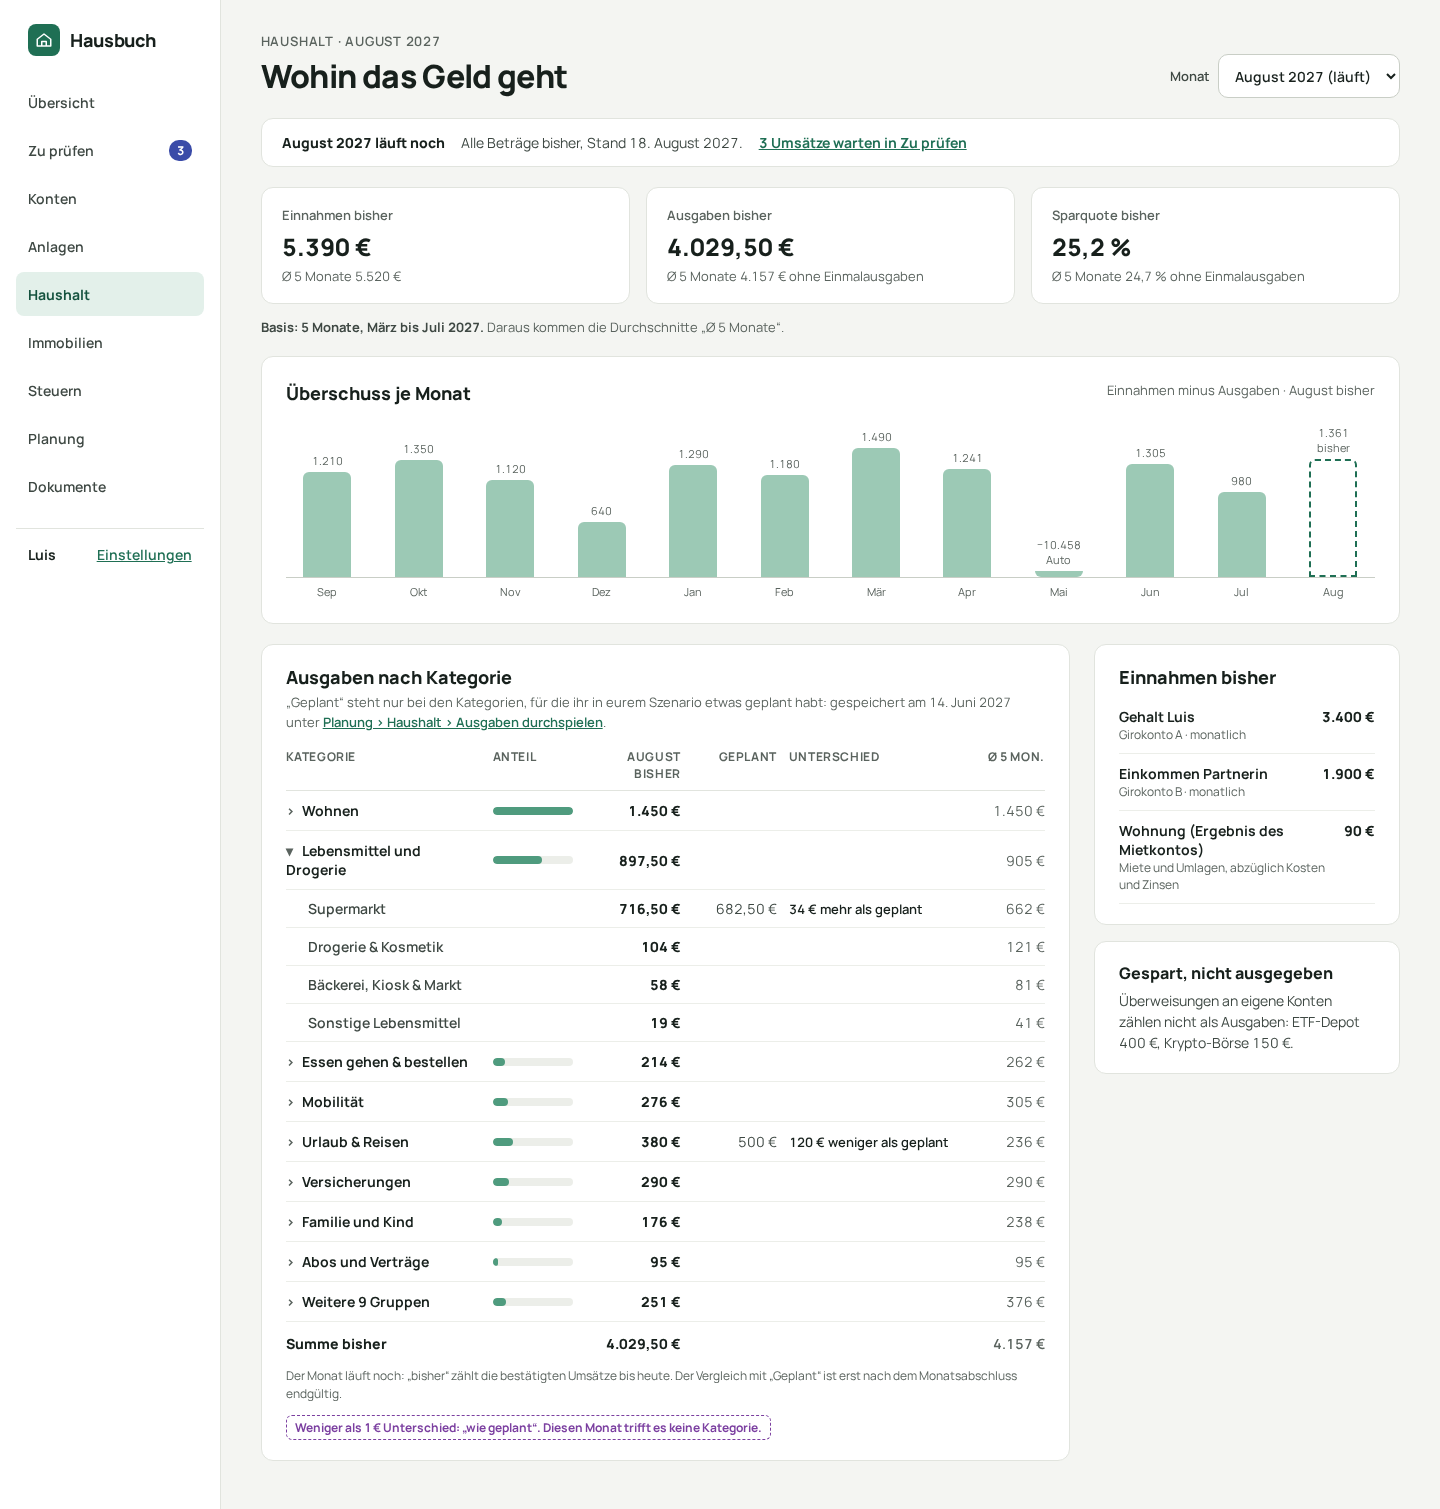
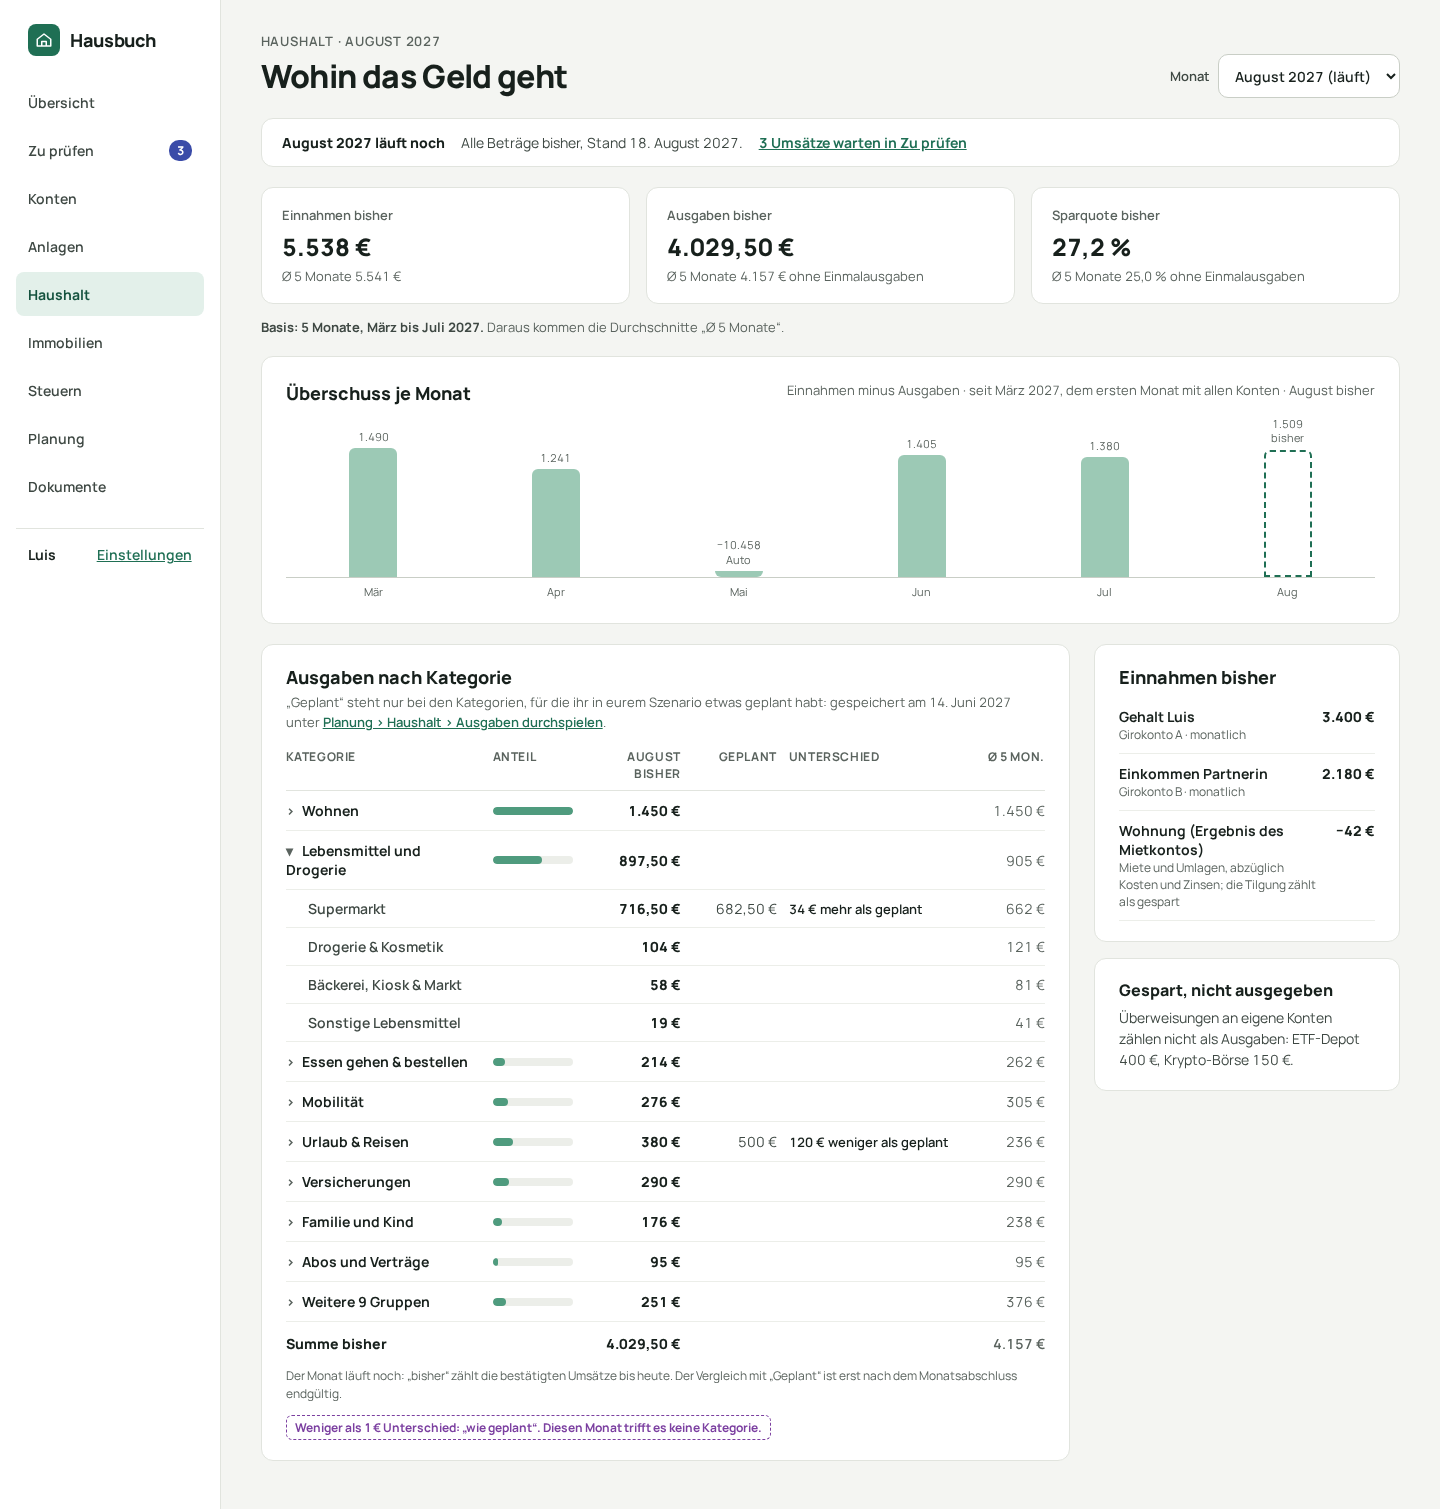
Mockups: 10b and 12d agree with the spec's worked example
10b: the flat's result R at -42 EUR a month (sec. 15.2 gives a rate
today of 25.71 % only with it), so income, rate and the August bar
follow; the chart starts in March 2027 like its five-month basis.
12d: regular spending shown as 4.116,67 EUR so the changed months add up.

Claude-Session: https://claude.ai/code/session_01AnDYAHwbfbCynEyrzGtX59

diff --git a/docs/mockups/10b-household-planned.html b/docs/mockups/10b-household-planned.html
@@ -45,36 +45,18 @@ a{color:#1F6F54}a:hover{color:#14523E}
 <a href="03-inbox.html" style="font-weight: 700">3 Umsätze warten in Zu prüfen</a>
 </div>
 <div style="display: grid; grid-template-columns: repeat(auto-fit, minmax(220px, 1fr)); gap: 16px">
-<div style="background: #FFFFFF; border: 1px solid #E1E4DE; border-radius: 12px; padding: 18px 20px"><p style="margin: 0; font-size: 13px; font-weight: 600; color: #5A635E">Einnahmen bisher</p><p style="margin: 6px 0 0; font-size: 24px; font-weight: 800">5.390 €</p><p style="margin: 4px 0 0; font-size: 13px; color: #5A635E">Ø 5 Monate 5.520 €</p></div>
+<div style="background: #FFFFFF; border: 1px solid #E1E4DE; border-radius: 12px; padding: 18px 20px"><p style="margin: 0; font-size: 13px; font-weight: 600; color: #5A635E">Einnahmen bisher</p><p style="margin: 6px 0 0; font-size: 24px; font-weight: 800">5.538 €</p><p style="margin: 4px 0 0; font-size: 13px; color: #5A635E">Ø 5 Monate 5.541 €</p></div>
 <div style="background: #FFFFFF; border: 1px solid #E1E4DE; border-radius: 12px; padding: 18px 20px"><p style="margin: 0; font-size: 13px; font-weight: 600; color: #5A635E">Ausgaben bisher</p><p style="margin: 6px 0 0; font-size: 24px; font-weight: 800">4.029,50 €</p><p style="margin: 4px 0 0; font-size: 13px; color: #5A635E">Ø 5 Monate 4.157 € ohne Einmalausgaben</p></div>
-<div style="background: #FFFFFF; border: 1px solid #E1E4DE; border-radius: 12px; padding: 18px 20px"><p style="margin: 0; font-size: 13px; font-weight: 600; color: #5A635E">Sparquote bisher</p><p style="margin: 6px 0 0; font-size: 24px; font-weight: 800">25,2 %</p><p style="margin: 4px 0 0; font-size: 13px; color: #5A635E">Ø 5 Monate 24,7 % ohne Einmalausgaben</p></div>
+<div style="background: #FFFFFF; border: 1px solid #E1E4DE; border-radius: 12px; padding: 18px 20px"><p style="margin: 0; font-size: 13px; font-weight: 600; color: #5A635E">Sparquote bisher</p><p style="margin: 6px 0 0; font-size: 24px; font-weight: 800">27,2 %</p><p style="margin: 4px 0 0; font-size: 13px; color: #5A635E">Ø 5 Monate 25,0 % ohne Einmalausgaben</p></div>
 </div>
 <p style="margin: -6px 0 0; font-size: 13px; color: #3E4843"><strong>Basis: 5 Monate, März bis Juli 2027.</strong> <span style="color: #5A635E">Daraus kommen die Durchschnitte „Ø 5 Monate“.</span></p>
 <section style="background: #FFFFFF; border: 1px solid #E1E4DE; border-radius: 12px; padding: 24px">
 <div style="display: flex; justify-content: space-between; flex-wrap: wrap; gap: 8px; margin-bottom: 12px">
 <h2 style="margin: 0; font-size: 18px; font-weight: 800">Überschuss je Monat</h2>
-<span style="font-size: 13px; color: #5A635E">Einnahmen minus Ausgaben · August bisher</span>
+<span style="font-size: 13px; color: #5A635E">Einnahmen minus Ausgaben · seit März 2027, dem ersten Monat mit allen Konten · August bisher</span>
 </div>
-<div style="display: flex; align-items: flex-end; gap: 8px; height: 160px; border-bottom: 1px solid #C9CEC6" role="img" aria-label="Monatlicher Überschuss September 2026 bis August 2027; Mai 2027 mit dem Autokauf negativ, August 2027 noch offen">
+<div style="display: flex; align-items: flex-end; gap: 8px; height: 160px; border-bottom: 1px solid #C9CEC6" role="img" aria-label="Monatlicher Überschuss März bis August 2027; Mai 2027 mit dem Autokauf negativ, August 2027 noch offen">
 <div style="flex: 1; min-width: 0; display: flex; flex-direction: column; align-items: center; justify-content: flex-end; height: 160px; gap: 4px">
-<span style="font-size: 11px; color: #5A635E; text-align: center; line-height: 1.3">1.210</span>
-<div style="width: 100%; max-width: 48px; height: 105px; border-radius: 6px 6px 0 0; background: #9CC9B5"></div>
-</div><div style="flex: 1; min-width: 0; display: flex; flex-direction: column; align-items: center; justify-content: flex-end; height: 160px; gap: 4px">
-<span style="font-size: 11px; color: #5A635E; text-align: center; line-height: 1.3">1.350</span>
-<div style="width: 100%; max-width: 48px; height: 117px; border-radius: 6px 6px 0 0; background: #9CC9B5"></div>
-</div><div style="flex: 1; min-width: 0; display: flex; flex-direction: column; align-items: center; justify-content: flex-end; height: 160px; gap: 4px">
-<span style="font-size: 11px; color: #5A635E; text-align: center; line-height: 1.3">1.120</span>
-<div style="width: 100%; max-width: 48px; height: 97px; border-radius: 6px 6px 0 0; background: #9CC9B5"></div>
-</div><div style="flex: 1; min-width: 0; display: flex; flex-direction: column; align-items: center; justify-content: flex-end; height: 160px; gap: 4px">
-<span style="font-size: 11px; color: #5A635E; text-align: center; line-height: 1.3">640</span>
-<div style="width: 100%; max-width: 48px; height: 55px; border-radius: 6px 6px 0 0; background: #9CC9B5"></div>
-</div><div style="flex: 1; min-width: 0; display: flex; flex-direction: column; align-items: center; justify-content: flex-end; height: 160px; gap: 4px">
-<span style="font-size: 11px; color: #5A635E; text-align: center; line-height: 1.3">1.290</span>
-<div style="width: 100%; max-width: 48px; height: 112px; border-radius: 6px 6px 0 0; background: #9CC9B5"></div>
-</div><div style="flex: 1; min-width: 0; display: flex; flex-direction: column; align-items: center; justify-content: flex-end; height: 160px; gap: 4px">
-<span style="font-size: 11px; color: #5A635E; text-align: center; line-height: 1.3">1.180</span>
-<div style="width: 100%; max-width: 48px; height: 102px; border-radius: 6px 6px 0 0; background: #9CC9B5"></div>
-</div><div style="flex: 1; min-width: 0; display: flex; flex-direction: column; align-items: center; justify-content: flex-end; height: 160px; gap: 4px">
 <span style="font-size: 11px; color: #5A635E; text-align: center; line-height: 1.3">1.490</span>
 <div style="width: 100%; max-width: 48px; height: 129px; border-radius: 6px 6px 0 0; background: #9CC9B5"></div>
 </div><div style="flex: 1; min-width: 0; display: flex; flex-direction: column; align-items: center; justify-content: flex-end; height: 160px; gap: 4px">
@@ -83,17 +65,17 @@ a{color:#1F6F54}a:hover{color:#14523E}
 </div><div style="flex: 1; min-width: 0; display: flex; flex-direction: column; align-items: center; justify-content: flex-end; height: 160px; gap: 4px">
 <span style="font-size: 11px; color: #5A635E; text-align: center; line-height: 1.3">−10.458<br>Auto</span>
 <div style="width: 100%; max-width: 48px; height: 6px; border-radius: 0 0 6px 6px; background: #9CC9B5"></div></div><div style="flex: 1; min-width: 0; display: flex; flex-direction: column; align-items: center; justify-content: flex-end; height: 160px; gap: 4px">
-<span style="font-size: 11px; color: #5A635E; text-align: center; line-height: 1.3">1.305</span>
-<div style="width: 100%; max-width: 48px; height: 113px; border-radius: 6px 6px 0 0; background: #9CC9B5"></div>
+<span style="font-size: 11px; color: #5A635E; text-align: center; line-height: 1.3">1.405</span>
+<div style="width: 100%; max-width: 48px; height: 122px; border-radius: 6px 6px 0 0; background: #9CC9B5"></div>
 </div><div style="flex: 1; min-width: 0; display: flex; flex-direction: column; align-items: center; justify-content: flex-end; height: 160px; gap: 4px">
-<span style="font-size: 11px; color: #5A635E; text-align: center; line-height: 1.3">980</span>
-<div style="width: 100%; max-width: 48px; height: 85px; border-radius: 6px 6px 0 0; background: #9CC9B5"></div>
+<span style="font-size: 11px; color: #5A635E; text-align: center; line-height: 1.3">1.380</span>
+<div style="width: 100%; max-width: 48px; height: 120px; border-radius: 6px 6px 0 0; background: #9CC9B5"></div>
 </div><div style="flex: 1; min-width: 0; display: flex; flex-direction: column; align-items: center; justify-content: flex-end; height: 160px; gap: 4px">
-<span style="font-size: 11px; color: #5A635E; text-align: center; line-height: 1.3">1.361<br>bisher</span>
-<div style="width: 100%; max-width: 48px; height: 118px; border-radius: 6px 6px 0 0; border: 2px dashed #1F6F54; background: #FFFFFF; box-sizing: border-box"></div>
+<span style="font-size: 11px; color: #5A635E; text-align: center; line-height: 1.3">1.509<br>bisher</span>
+<div style="width: 100%; max-width: 48px; height: 131px; border-radius: 6px 6px 0 0; border: 2px dashed #1F6F54; background: #FFFFFF; box-sizing: border-box"></div>
 </div>
 </div>
-<div style="display: flex; gap: 8px; margin-top: 6px"><span style="flex: 1; min-width: 0; text-align: center; font-size: 11px; color: #5A635E">Sep</span><span style="flex: 1; min-width: 0; text-align: center; font-size: 11px; color: #5A635E">Okt</span><span style="flex: 1; min-width: 0; text-align: center; font-size: 11px; color: #5A635E">Nov</span><span style="flex: 1; min-width: 0; text-align: center; font-size: 11px; color: #5A635E">Dez</span><span style="flex: 1; min-width: 0; text-align: center; font-size: 11px; color: #5A635E">Jan</span><span style="flex: 1; min-width: 0; text-align: center; font-size: 11px; color: #5A635E">Feb</span><span style="flex: 1; min-width: 0; text-align: center; font-size: 11px; color: #5A635E">Mär</span><span style="flex: 1; min-width: 0; text-align: center; font-size: 11px; color: #5A635E">Apr</span><span style="flex: 1; min-width: 0; text-align: center; font-size: 11px; color: #5A635E">Mai</span><span style="flex: 1; min-width: 0; text-align: center; font-size: 11px; color: #5A635E">Jun</span><span style="flex: 1; min-width: 0; text-align: center; font-size: 11px; color: #5A635E">Jul</span><span style="flex: 1; min-width: 0; text-align: center; font-size: 11px; color: #5A635E">Aug</span></div>
+<div style="display: flex; gap: 8px; margin-top: 6px"><span style="flex: 1; min-width: 0; text-align: center; font-size: 11px; color: #5A635E">Mär</span><span style="flex: 1; min-width: 0; text-align: center; font-size: 11px; color: #5A635E">Apr</span><span style="flex: 1; min-width: 0; text-align: center; font-size: 11px; color: #5A635E">Mai</span><span style="flex: 1; min-width: 0; text-align: center; font-size: 11px; color: #5A635E">Jun</span><span style="flex: 1; min-width: 0; text-align: center; font-size: 11px; color: #5A635E">Jul</span><span style="flex: 1; min-width: 0; text-align: center; font-size: 11px; color: #5A635E">Aug</span></div>
 </section>
 <div style="display: flex; flex-wrap: wrap; gap: 24px; align-items: flex-start">
 <section style="flex: 3 1 720px; min-width: 0; background: #FFFFFF; border: 1px solid #E1E4DE; border-radius: 12px; padding: 20px 24px">
@@ -214,8 +196,8 @@ a{color:#1F6F54}a:hover{color:#14523E}
 <section style="background: #FFFFFF; border: 1px solid #E1E4DE; border-radius: 12px; padding: 20px 24px">
 <h2 style="margin: 0 0 8px; font-size: 18px; font-weight: 800">Einnahmen bisher</h2>
 <div style="display: flex; justify-content: space-between; gap: 12px; padding: 10px 0; border-bottom: 1px solid #ECEEE9; font-size: 14px"><span><span style="display: block; font-weight: 700">Gehalt Luis</span><span style="display: block; font-size: 12px; color: #5A635E">Girokonto A · monatlich</span></span><span style="font-weight: 800; white-space: nowrap">3.400 €</span></div>
-<div style="display: flex; justify-content: space-between; gap: 12px; padding: 10px 0; border-bottom: 1px solid #ECEEE9; font-size: 14px"><span><span style="display: block; font-weight: 700">Einkommen Partnerin</span><span style="display: block; font-size: 12px; color: #5A635E">Girokonto B · monatlich</span></span><span style="font-weight: 800; white-space: nowrap">1.900 €</span></div>
-<div style="display: flex; justify-content: space-between; gap: 12px; padding: 10px 0; border-bottom: 1px solid #ECEEE9; font-size: 14px"><span><span style="display: block; font-weight: 700">Wohnung (Ergebnis des Mietkontos)</span><span style="display: block; font-size: 12px; color: #5A635E">Miete und Umlagen, abzüglich Kosten und Zinsen</span></span><span style="font-weight: 800; white-space: nowrap">90 €</span></div>
+<div style="display: flex; justify-content: space-between; gap: 12px; padding: 10px 0; border-bottom: 1px solid #ECEEE9; font-size: 14px"><span><span style="display: block; font-weight: 700">Einkommen Partnerin</span><span style="display: block; font-size: 12px; color: #5A635E">Girokonto B · monatlich</span></span><span style="font-weight: 800; white-space: nowrap">2.180 €</span></div>
+<div style="display: flex; justify-content: space-between; gap: 12px; padding: 10px 0; border-bottom: 1px solid #ECEEE9; font-size: 14px"><span><span style="display: block; font-weight: 700">Wohnung (Ergebnis des Mietkontos)</span><span style="display: block; font-size: 12px; color: #5A635E">Miete und Umlagen, abzüglich Kosten und Zinsen; die Tilgung zählt als gespart</span></span><span style="font-weight: 800; white-space: nowrap">−42 €</span></div>
 </section>
 <section style="background: #FFFFFF; border: 1px solid #E1E4DE; border-radius: 12px; padding: 20px 24px">
 <h2 style="margin: 0 0 6px; font-size: 16px; font-weight: 800">Gespart, nicht ausgegeben</h2>

diff --git a/docs/mockups/12d-planning-spending-play.html b/docs/mockups/12d-planning-spending-play.html
@@ -141,10 +141,10 @@ a{color:#1F6F54}a:hover{color:#14523E}
 </div>
 <a href="#" style="display: grid; grid-template-columns: minmax(0, 1fr) 110px minmax(0, 2.3fr); gap: 16px; align-items: center; padding: 10px 0; border-bottom: 1px solid #ECEEE9; text-decoration: none; color: #17201C">
 <span style="font-size: 14px; font-weight: 600; color: #1F6F54"><span style="display: inline-block; width: 18px">›</span>9 weitere Gruppen anzeigen</span>
-<span style="text-align: right; font-size: 14px; color: #3E4843">382 €</span><span></span></a>
+<span style="text-align: right; font-size: 14px; color: #3E4843">381,67 €</span><span></span></a>
 <div style="display: grid; grid-template-columns: minmax(0, 1fr) 110px minmax(0, 2.3fr); gap: 16px; align-items: start; padding: 12px 0 0">
 <span style="font-size: 14px; font-weight: 800">Regelmäßige Ausgaben</span>
-<span style="text-align: right; font-size: 14px; font-weight: 800">4.117 €</span>
+<span style="text-align: right; font-size: 14px; font-weight: 800">4.116,67 €</span>
 <span style="font-size: 13px; color: #3E4843; line-height: 1.55">mit euren Änderungen:<br>Juni 2027: 4.149,17 €<br>Juli bis September 2027: 4.449,17 €<br>ab Oktober 2027: 4.149,17 €</span>
 </div>
 <div style="margin-top: 14px; display: flex; flex-wrap: wrap; gap: 8px 12px; align-items: center">
